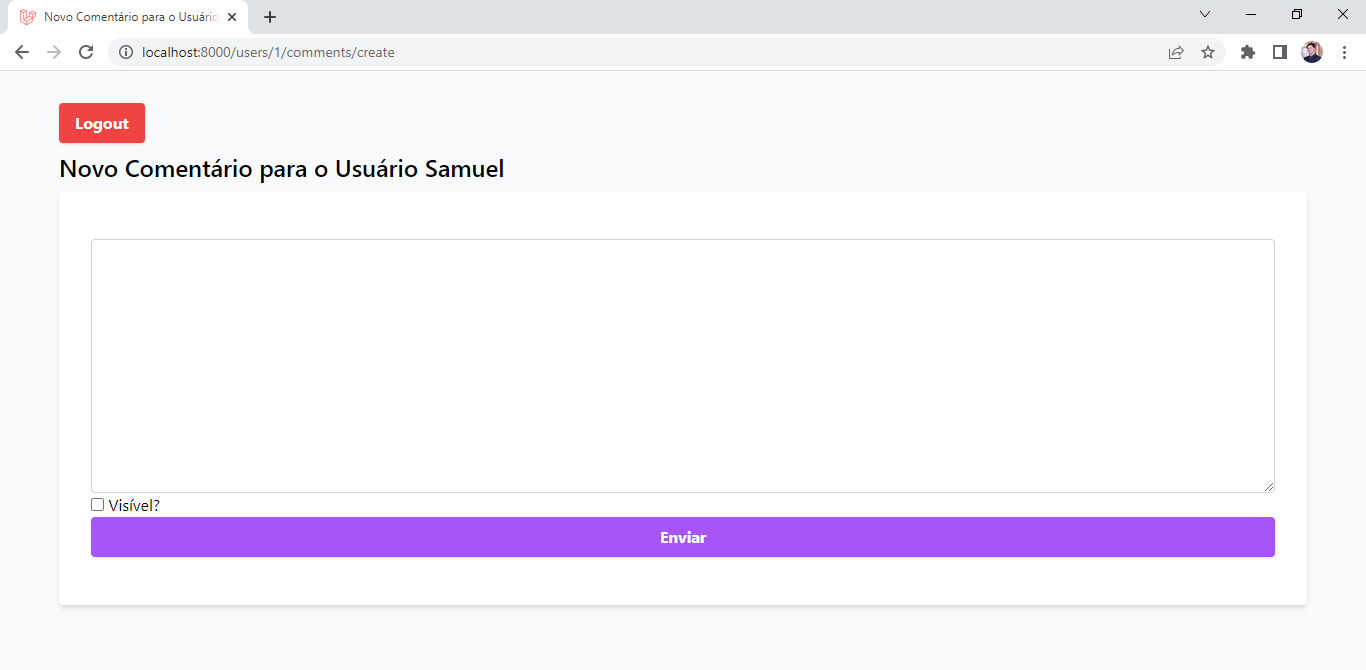
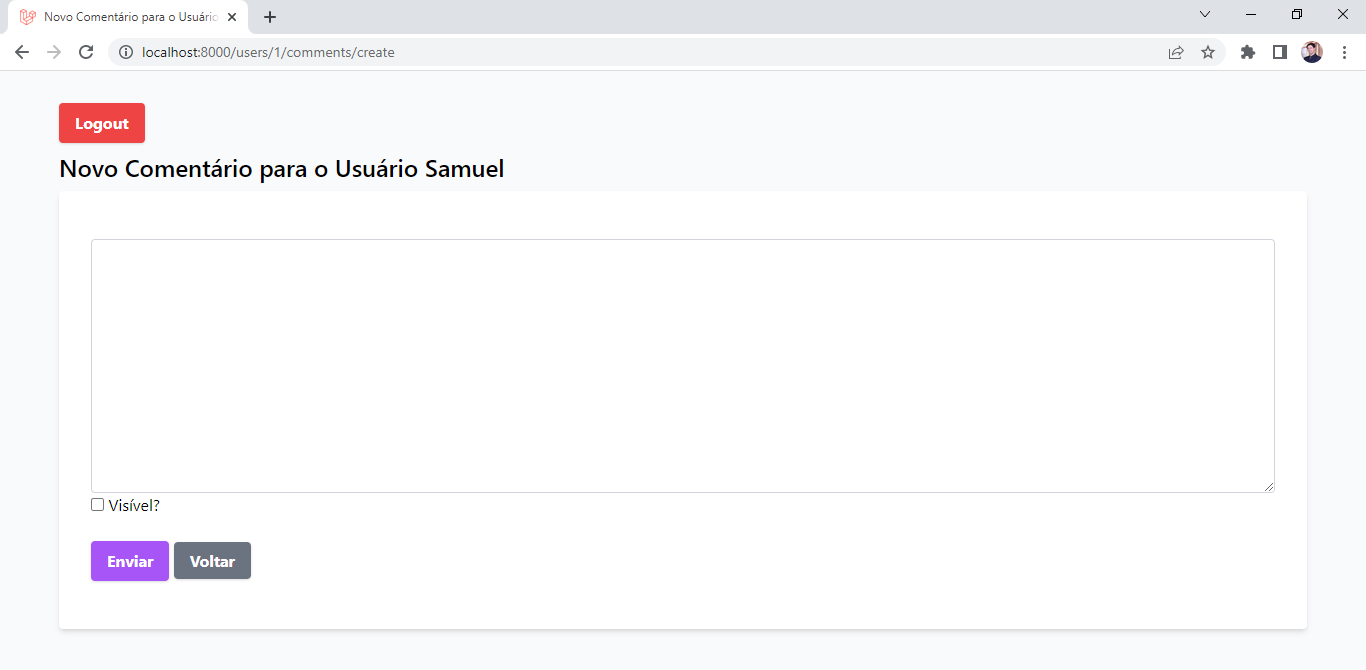
Adicionado botão 'Voltar' para melhorar navegação

Changed region(s): [[0.0615, 0.7463, 0.9531, 0.8657]]

diff --git a/public/css/app.css b/public/css/app.css
@@ -788,6 +788,9 @@ select {
 .-mt-px {
   margin-top: -1px;
 }
+.ml-0 {
+  margin-left: 0px;
+}
 .mb-4 {
   margin-bottom: 1rem;
 }
@@ -875,6 +878,9 @@ select {
 .min-w-full {
   min-width: 100%;
 }
+.max-w-xl {
+  max-width: 36rem;
+}
 .max-w-6xl {
   max-width: 72rem;
 }
@@ -926,11 +932,17 @@ select {
 .grid-cols-1 {
   grid-template-columns: repeat(1, minmax(0, 1fr));
 }
+.grid-cols-2 {
+  grid-template-columns: repeat(2, minmax(0, 1fr));
+}
 .flex-col {
   flex-direction: column;
 }
 .items-center {
   align-items: center;
+}
+.justify-start {
+  justify-content: flex-start;
 }
 .justify-end {
   justify-content: flex-end;
@@ -986,6 +998,15 @@ select {
 .border-t {
   border-top-width: 1px;
 }
+.border-r {
+  border-right-width: 1px;
+}
+.border-t-0 {
+  border-top-width: 0px;
+}
+.border-l {
+  border-left-width: 1px;
+}
 .border-b-2 {
   border-bottom-width: 2px;
 }
@@ -1005,6 +1026,14 @@ select {
 .border-gray-200 {
   --tw-border-opacity: 1;
   border-color: rgb(229 231 235 / var(--tw-border-opacity));
+}
+.border-gray-400 {
+  --tw-border-opacity: 1;
+  border-color: rgb(156 163 175 / var(--tw-border-opacity));
+}
+.border-gray-700 {
+  --tw-border-opacity: 1;
+  border-color: rgb(55 65 81 / var(--tw-border-opacity));
 }
 .border-transparent {
   border-color: transparent;
@@ -1032,6 +1061,10 @@ select {
 .bg-gray-800 {
   --tw-bg-opacity: 1;
   background-color: rgb(31 41 55 / var(--tw-bg-opacity));
+}
+.bg-gray-900 {
+  --tw-bg-opacity: 1;
+  background-color: rgb(17 24 39 / var(--tw-bg-opacity));
 }
 .bg-indigo-50 {
   --tw-bg-opacity: 1;
@@ -1112,6 +1145,10 @@ select {
   padding-left: 1.5rem;
   padding-right: 1.5rem;
 }
+.px-8 {
+  padding-left: 2rem;
+  padding-right: 2rem;
+}
 .py-1 {
   padding-top: 0.25rem;
   padding-bottom: 0.25rem;
@@ -1140,10 +1177,6 @@ select {
   padding-top: 3rem;
   padding-bottom: 3rem;
 }
-.px-8 {
-  padding-left: 2rem;
-  padding-right: 2rem;
-}
 .px-3 {
   padding-left: 0.75rem;
   padding-right: 0.75rem;
@@ -1154,6 +1187,9 @@ select {
 }
 .pt-8 {
   padding-top: 2rem;
+}
+.pt-0 {
+  padding-top: 0px;
 }
 .pt-6 {
   padding-top: 1.5rem;
@@ -1184,6 +1220,9 @@ select {
 }
 .text-center {
   text-align: center;
+}
+.text-right {
+  text-align: right;
 }
 .font-sans {
   font-family: Nunito, ui-sans-serif, system-ui, -apple-system, BlinkMacSystemFont, "Segoe UI", Roboto, "Helvetica Neue", Arial, "Noto Sans", sans-serif, "Apple Color Emoji", "Segoe UI Emoji", "Segoe UI Symbol", "Noto Color Emoji";
@@ -1235,11 +1274,11 @@ select {
 .leading-normal {
   line-height: 1.5;
 }
-.tracking-widest {
-  letter-spacing: 0.1em;
-}
 .tracking-wider {
   letter-spacing: 0.05em;
+}
+.tracking-widest {
+  letter-spacing: 0.1em;
 }
 .text-gray-500 {
   --tw-text-opacity: 1;
@@ -1269,6 +1308,10 @@ select {
   --tw-text-opacity: 1;
   color: rgb(17 24 39 / var(--tw-text-opacity));
 }
+.text-white {
+  --tw-text-opacity: 1;
+  color: rgb(255 255 255 / var(--tw-text-opacity));
+}
 .text-indigo-600 {
   --tw-text-opacity: 1;
   color: rgb(79 70 229 / var(--tw-text-opacity));
@@ -1280,10 +1323,6 @@ select {
 .text-red-600 {
   --tw-text-opacity: 1;
   color: rgb(220 38 38 / var(--tw-text-opacity));
-}
-.text-white {
-  --tw-text-opacity: 1;
-  color: rgb(255 255 255 / var(--tw-text-opacity));
 }
 .text-indigo-700 {
   --tw-text-opacity: 1;
@@ -1346,6 +1385,10 @@ select {
 }
 .ring-opacity-5 {
   --tw-ring-opacity: 0.05;
+}
+.grayscale {
+  --tw-grayscale: grayscale(100%);
+  filter: var(--tw-blur) var(--tw-brightness) var(--tw-contrast) var(--tw-grayscale) var(--tw-hue-rotate) var(--tw-invert) var(--tw-saturate) var(--tw-sepia) var(--tw-drop-shadow);
 }
 .transition {
   transition-property: color, background-color, border-color, fill, stroke, opacity, box-shadow, transform, filter, -webkit-text-decoration-color, -webkit-backdrop-filter;

diff --git a/resources/views/users/_partials/form.blade.php b/resources/views/users/_partials/form.blade.php
@@ -8,8 +8,13 @@
            class="shadow appearance-none border rounded w-full py-2 px-3 text-gray-700 leading-tight focus:outline-none focus:shadow-outline my-2">
     <input type="file" name="image"
            class="shadow appearance-none border rounded w-full py-2 px-3 text-gray-700 leading-tight focus:outline-none focus:shadow-outline my-2">
+    <br/><br/>
     <button type="submit"
-            class="w-full shadow bg-purple-500 hover:bg-purple-400 focus:shadow-outline focus:outline-none text-white font-bold py-2 px-4 rounded">
+            class="shadow bg-purple-500 hover:bg-purple-400 focus:shadow-outline focus:outline-none text-white font-bold py-2 px-4 rounded">
         Enviar
     </button>
+    <a href="{{ route('users.index') }}"
+       class="shadow bg-gray-500 hover:bg-gray-400 focus:shadow-outline focus:outline-none text-white font-bold py-2 px-4 rounded">
+        Voltar
+    </a>
 </div>

diff --git a/resources/views/users/comments/_partials/form.blade.php b/resources/views/users/comments/_partials/form.blade.php
@@ -12,8 +12,13 @@
         >
         Visível?
     </label>
+    <br/><br/>
     <button type="submit"
-            class="w-full shadow bg-purple-500 hover:bg-purple-400 focus:shadow-outline focus:outline-none text-white font-bold py-2 px-4 rounded">
+            class="shadow bg-purple-500 hover:bg-purple-400 focus:shadow-outline focus:outline-none text-white font-bold py-2 px-4 rounded">
         Enviar
     </button>
+    <a href="{{ route('comments.index', $user->id) }}"
+       class="shadow bg-gray-500 hover:bg-gray-400 focus:shadow-outline focus:outline-none text-white font-bold py-2 px-4 rounded">
+        Voltar
+    </a>
 </div>

diff --git a/resources/views/users/comments/index.blade.php b/resources/views/users/comments/index.blade.php
@@ -52,4 +52,9 @@
         @endforeach
         </tbody>
     </table>
+    <br/>
+    <a href="{{ route('users.index') }}"
+       class="shadow bg-gray-500 hover:bg-gray-400 focus:shadow-outline focus:outline-none text-white font-bold py-2 px-4 rounded">
+        Voltar
+    </a>
 @endsection

diff --git a/routes/web.php b/routes/web.php
@@ -22,7 +22,8 @@ Route::middleware(['auth'])->group(function () {
 });
 
 Route::get('/', function () {
-    return view('welcome');
+    // return view('welcome');
+    return redirect("/users");
 });
 
 require __DIR__ . '/auth.php';
